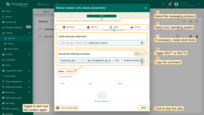
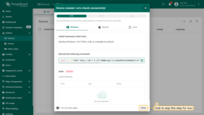
edit Provision device section

diff --git a/docs/getting-started-guides/helloworld.md b/docs/getting-started-guides/helloworld.md
@@ -17,24 +17,26 @@ step1:
         title: 'Enter the device name. For example, "My New Device". No other changes required at this time. Click "Add" to add the device;'
     3:
         image: /images/helloworld/getting-started-ce/hello-world-1-1-provision-device-connectivity-1-ce.png
-        title: 'The window to check the device&#39;s connection to ThingsBoard will open. The following step is optional. Select the messaging protocol and your operating system. Then, install the necessary client tools and copy the command;'
+        title: 'Device is created. A window will open where you can check the device&#39;s connection to ThingsBoard. This step is optional. Let&#39;s close this window for now and return to checking the connection in the next step in more detail;'
     4:
-        image: /images/helloworld/getting-started-ce/hello-world-1-1-provision-device-connectivity-3-ce.png
-        title: 'Execute previously copied command. The device state should be changed from "Inactive" to "Active" and you should see the published "temperature" readings. Then, close the connectivity window;'
-    5:
         image: /images/helloworld/getting-started-ce/hello-world-1-1-provision-device-4-ce.png 
-        title: 'Your first device has been added. As new devices are added, they will be added to the top of the table, since the table sort devices using the time of the creation by default;'
-    6:
+        title: 'Your first device has been added. As new devices are added, they will be added to the top of the table, since the table sort devices using the time of the creation by default.'
+
+step11:
+    0:
         image: /images/helloworld/getting-started-ce/hello-world-1-1-provision-device-5-ce.png 
-        title: 'When adding a new device, you will receive a notification. You can view it by clicking on the "bell" icon in the top right corner.'
+        title: 'You can view notification by clicking on the "bell" icon in the top right corner.'
 
 step2:
     0:
-        image: /images/helloworld/getting-started-ce/hello-world-2-1-connect-device-1-ce.png
-        title: 'Click on the device row in the table to open device details. Note that the device state is "Inactive";'
+        image: /images/helloworld/getting-started-ce/check-connectivity-device-1-ce.png
+        title: 'Click on the your device, and click the "Check connectivity” button in the "Device details" window;'
     1:
-        image: /images/helloworld/getting-started-ce/hello-world-2-1-connect-device-2-ce.png
-        title: 'Click "Copy access token". Token will be copied to your clipboard. Save it to a safe place.'
+        image: /images/helloworld/getting-started-ce/check-connectivity-device-2-ce.png
+        title: 'In the opened window select the messaging protocol and your operating system. Install the necessary client tools and copy the command;'
+    2:
+        image: /images/helloworld/getting-started-ce/check-connectivity-device-3-ce.png
+        title: 'Execute previously copied command. Once you have successfully published the “temperature” readings, the device state should be changed from "Inactive" to "Active" and you should see the published "temperature" readings. Now, close the connectivity window.'
 
 step21:
     0:
@@ -303,6 +305,11 @@ To add a new device, follow these steps:
  
 {% include images-gallery.html imageCollection="step1" showListImageTitles="true" %}
 
+<br>
+When adding a new device, you will receive a notification. You can view it by clicking on the "bell" icon in the top right corner.
+
+{% include images-gallery.html imageCollection="step11" %}
+
 Learn more about **notifications** and how to configure them [here](#step-6-alarm-notifications).
 
 <br>
@@ -313,25 +320,13 @@ You may also use:
 
 ## Step 2. Connect device
 
-To connect the device you need to get the device credentials first. 
-ThingsBoard supports various device credentials. We recommend using the default auto-generated credentials, which is an access token for this guide.
+Now, let's check the connection of our device to the ThingsBoard platform.
+To do this, using the "Check connectivity" functionality to publish telemetry data (for example, temperature readings) on behalf of your device. You can do this both during while adding device and after.
 
 {% include images-gallery.html imageCollection="step2" showListImageTitles="true" %}
 
-Now, you are ready to publish telemetry data on behalf of your device. 
-We will use simple commands to publish data over HTTP or MQTT in this example.
-
-{% capture connectdevicetogglespec %}
-HTTP<small>Linux, macOS or Windows</small>%,%http%,%templates/helloworld/http.md%br%
-MQTT<small>Linux or macOS</small>%,%mqtt-linux%,%templates/helloworld/mqtt-linux.md%br%
-MQTT<small>Windows</small>%,%mqtt-windows%,%templates/helloworld/mqtt-windows.md%br%
-CoAP<small>Linux or macOS</small>%,%coap%,%templates/helloworld/coap.md%br%
-Other Protocols<small>Modbus, SNMP, LoRaWAN, etc</small>%,%other%,%templates/helloworld/other.md{% endcapture %}
-{% include content-toggle.html content-toggle-id="connectdevice" toggle-spec=connectdevicetogglespec %}
-
-Once you have successfully published the "temperature" readings, you should immediately see them in the Device Telemetry Tab:
-
-{% include images-gallery.html imageCollection="step21" showListImageTitles="true" %}
+<br>
+You may also use [ThingsBoard API reference](/docs/{{docsPrefix}}api). Here, you can find more detailed information about all supported protocols for device connectivity.
 
 ## Step 3. Create dashboard
 

diff --git a/docs/getting-started-guides/helloworld-pe.md b/docs/getting-started-guides/helloworld-pe.md
@@ -15,36 +15,30 @@ step1:
         title: 'By default, you navigate to the device group “All”. Click on the "+" icon in the top right corner of the table and then select "Add new device";'
     2:
         image: /images/helloworld/getting-started-pe/hello-world-1-1-provision-device-3-pe.png
-        title: 'Enter the device name. For example, "My New Device". No other changes are required at this time. Click "Add" to add the device;'
+        title: 'Enter the device name. For example, "My New Device". No other changes are required at this time. Click "Add";'
     3:
         image: /images/helloworld/getting-started-pe/hello-world-1-1-provision-device-connectivity-1-pe.png
-        title: 'The window to check the device&#39;s connection to ThingsBoard will open. The following step is optional. Select the messaging protocol and your operating system. Then, install the necessary client tools and copy the command;'
+        title: 'Device is created. A window will open where you can check the device&#39;s connection to ThingsBoard. This step is optional. Let&#39;s close this window for now and return to checking the connection in the next step in more detail;'
     4:
-        image: /images/helloworld/getting-started-pe/hello-world-1-1-provision-device-connectivity-3-pe.png
-        title: 'Execute previously copied command. The device state should be changed from "Inactive" to "Active" and you should see the published "temperature" readings. Then, close the connectivity window;'
-    5:
         image: /images/helloworld/getting-started-pe/hello-world-1-1-provision-device-4-pe.png
-        title: 'Your first device has been added. As new devices are added, they will be added to the top of the table, since the table sorts devices using the time of the creation by default;'
-    6:
+        title: 'Your first device has been added. As new devices are added, they will be added to the top of the table, since the table sorts devices using the time of the creation by default.'
+
+step11:
+    0:
         image: /images/helloworld/getting-started-pe/hello-world-1-1-provision-device-5-pe.png
-        title: 'When adding a new device, you will receive a notification. You can view it by clicking on the "bell" icon in the top right corner.'
+        title: 'You can view notification by clicking on the "bell" icon in the top right corner.'
 
 step2:
     0:
-        image: /images/helloworld/getting-started-pe/hello-world-2-1-connect-device-1-pe.png
-        title: 'Click on the device row in the table to open device details. Note that the device state is "Inactive";'
+        image: /images/helloworld/getting-started-pe/check-connectivity-device-1-pe.png
+        title: 'Click on the your device, and click the "Check connectivity” button in the "Device details" window;'
     1:
-        image: /images/helloworld/getting-started-pe/hello-world-2-1-connect-device-2-pe.png
-        title: 'Click "Copy access token". Token will be copied to your clipboard. Save it to a safe place.'
+        image: /images/helloworld/getting-started-pe/check-connectivity-device-2-pe.png
+        title: 'In the opened window select the messaging protocol and your operating system. Install the necessary client tools and copy the command;'
+    2:
+        image: /images/helloworld/getting-started-pe/check-connectivity-device-3-pe.png
+        title: 'Execute previously copied command. Once you have successfully published the “temperature” readings, the device state should be changed from "Inactive" to "Active" and you should see the published "temperature" readings. Now, close the connectivity window.'
 
-step21:
-    0:
-        image: /images/helloworld/getting-started-pe/hello-world-2-1-connect-device-3-pe.png
-        title: 'Navigate to the "Latest telemetry" tab. You should see the previously published "temperature" readings;'
-    1:
-        image: /images/helloworld/getting-started-pe/hello-world-2-1-connect-device-4-pe.png
-        title: 'Close the device details tab and refresh the "Devices" table. The device state should be changed from "Inactive" to "Active".'
-        
 step31:
     0:
         image: /images/user-guide/dashboards/overview/create-dashboard-1-pe.png

diff --git a/docs/paas/getting-started-guides/helloworld.md b/docs/paas/getting-started-guides/helloworld.md
@@ -14,35 +14,29 @@ step1:
         title: 'By default, you navigate to the device group “All”. Click on the "+" icon in the top right corner of the table and then select "Add new device";'
     2:
         image: /images/helloworld/getting-started-pe/hello-world-1-1-provision-device-3-pe.png
-        title: 'Enter the device name. For example, "My New Device". No other changes are required at this time. Click "Add" to add the device;'
+        title: 'Enter the device name. For example, "My New Device". No other changes are required at this time. Click "Add";'
     3:
         image: /images/helloworld/getting-started-pe/hello-world-1-1-provision-device-connectivity-1-pe.png
-        title: 'The window to check the device&#39;s connection to ThingsBoard will open. The following step is optional. Select the messaging protocol and your operating system. Then, install the necessary client tools and copy the command;'
+        title: 'Device is created. A window will open where you can check the device&#39;s connection to ThingsBoard. This step is optional. Let&#39;s close this window for now and return to checking the connection in the next step in more detail;'
     4:
-        image: /images/helloworld/getting-started-pe/hello-world-1-1-provision-device-connectivity-3-pe.png
-        title: 'Execute previously copied command. The device state should be changed from "Inactive" to "Active" and you should see the published "temperature" readings. Then, close the connectivity window;'
-    5:
         image: /images/helloworld/getting-started-pe/hello-world-1-1-provision-device-4-pe.png
-        title: 'Your first device has been added. As new devices are added, they will be added to the top of the table, since the table sorts devices using the time of the creation by default;'
-    6:
+        title: 'Your first device has been added. As new devices are added, they will be added to the top of the table, since the table sorts devices using the time of the creation by default.'
+
+step11:
+    0:
         image: /images/helloworld/getting-started-pe/hello-world-1-1-provision-device-5-pe.png
-        title: 'When adding a new device, you will receive a notification. You can view it by clicking on the "bell" icon in the top right corner.'
+        title: 'You can view notification by clicking on the "bell" icon in the top right corner.'
 
 step2:
     0:
-        image: /images/helloworld/getting-started-pe/hello-world-2-1-connect-device-1-pe.png
-        title: 'Click on the device row in the table to open device details. Note that the device state is "Inactive";'
+        image: /images/helloworld/getting-started-pe/check-connectivity-device-1-pe.png
+        title: 'Click on the your device, and click the "Check connectivity” button in the "Device details" window;'
     1:
-        image: /images/helloworld/getting-started-pe/hello-world-2-1-connect-device-2-pe.png
-        title: 'Click "Copy access token". Token will be copied to your clipboard. Save it to a safe place.'
-
-step21:
-    0:
-        image: /images/helloworld/getting-started-pe/hello-world-2-1-connect-device-3-pe.png
-        title: 'Navigate to the "Latest telemetry" tab. You should see the previously published "temperature" readings;'
-    1:
-        image: /images/helloworld/getting-started-pe/hello-world-2-1-connect-device-4-pe.png
-        title: 'Close the device details tab and refresh the "Devices" table. The device state should be changed from "Inactive" to "Active".'
+        image: /images/helloworld/getting-started-pe/check-connectivity-device-2-pe.png
+        title: 'In the opened window select the messaging protocol and your operating system. Install the necessary client tools and copy the command;'
+    2:
+        image: /images/helloworld/getting-started-pe/check-connectivity-device-3-pe.png
+        title: 'Execute previously copied command. Once you have successfully published the “temperature” readings, the device state should be changed from "Inactive" to "Active" and you should see the published "temperature" readings. Now, close the connectivity window.'
 
 step31:
     0:

diff --git a/_includes/docs/getting-started-guides/helloworld-pe.md b/_includes/docs/getting-started-guides/helloworld-pe.md
@@ -21,6 +21,11 @@ To add a new device, follow these steps:
  
 {% include images-gallery.html imageCollection="step1" showListImageTitles="true" %} 
 
+<br>
+When adding a new device, you will receive a notification. You can view it by clicking on the "bell" icon in the top right corner.
+
+{% include images-gallery.html imageCollection="step11" %}
+
 Learn more about **notifications** and how to configure them [here](#step-6-alarm-notifications).
 
 <br>
@@ -31,25 +36,13 @@ You may also use:
 
 ## Step 2. Connect device
 
-To connect the device you need to get the device credentials first. 
-ThingsBoard supports various device credentials. We recommend using the default auto-generated credentials, which is an access token for this guide.
+Now, let's check the connection of our device to the ThingsBoard platform.
+To do this, using the "Check connectivity" functionality to publish telemetry data (for example, temperature readings) on behalf of your device. You can do this both during while adding device and after.
 
 {% include images-gallery.html imageCollection="step2" showListImageTitles="true" %}
 
-Now, you are ready to publish telemetry data on behalf of your device. 
-We will use simple commands to publish data over HTTP or MQTT in this example.
-
-{% capture connectdevicetogglespec %}
-HTTP<small>Linux, macOS or Windows</small>%,%http%,%templates/helloworld-pe/http.md%br%
-MQTT<small>Linux or macOS</small>%,%mqtt-linux%,%templates/helloworld-pe/mqtt-linux.md%br%
-MQTT<small>Windows</small>%,%mqtt-windows%,%templates/helloworld-pe/mqtt-windows.md%br%
-CoAP<small>Linux or macOS</small>%,%coap%,%templates/helloworld-pe/coap.md%br%
-Other Protocols<small>Modbus, SNMP, LoRaWAN, etc</small>%,%other%,%templates/helloworld/other.md{% endcapture %}
-{% include content-toggle.html content-toggle-id="connectdevice" toggle-spec=connectdevicetogglespec %}
-
-Once you have successfully published the "temperature" readings, you should immediately see them in the Device Telemetry Tab:
-
-{% include images-gallery.html imageCollection="step21" showListImageTitles="true" %}
+<br>
+You may also use [ThingsBoard API reference](/docs/{{docsPrefix}}api). Here, you can find more detailed information about all supported protocols for device connectivity.
 
 ## Step 3. Create dashboard
 
